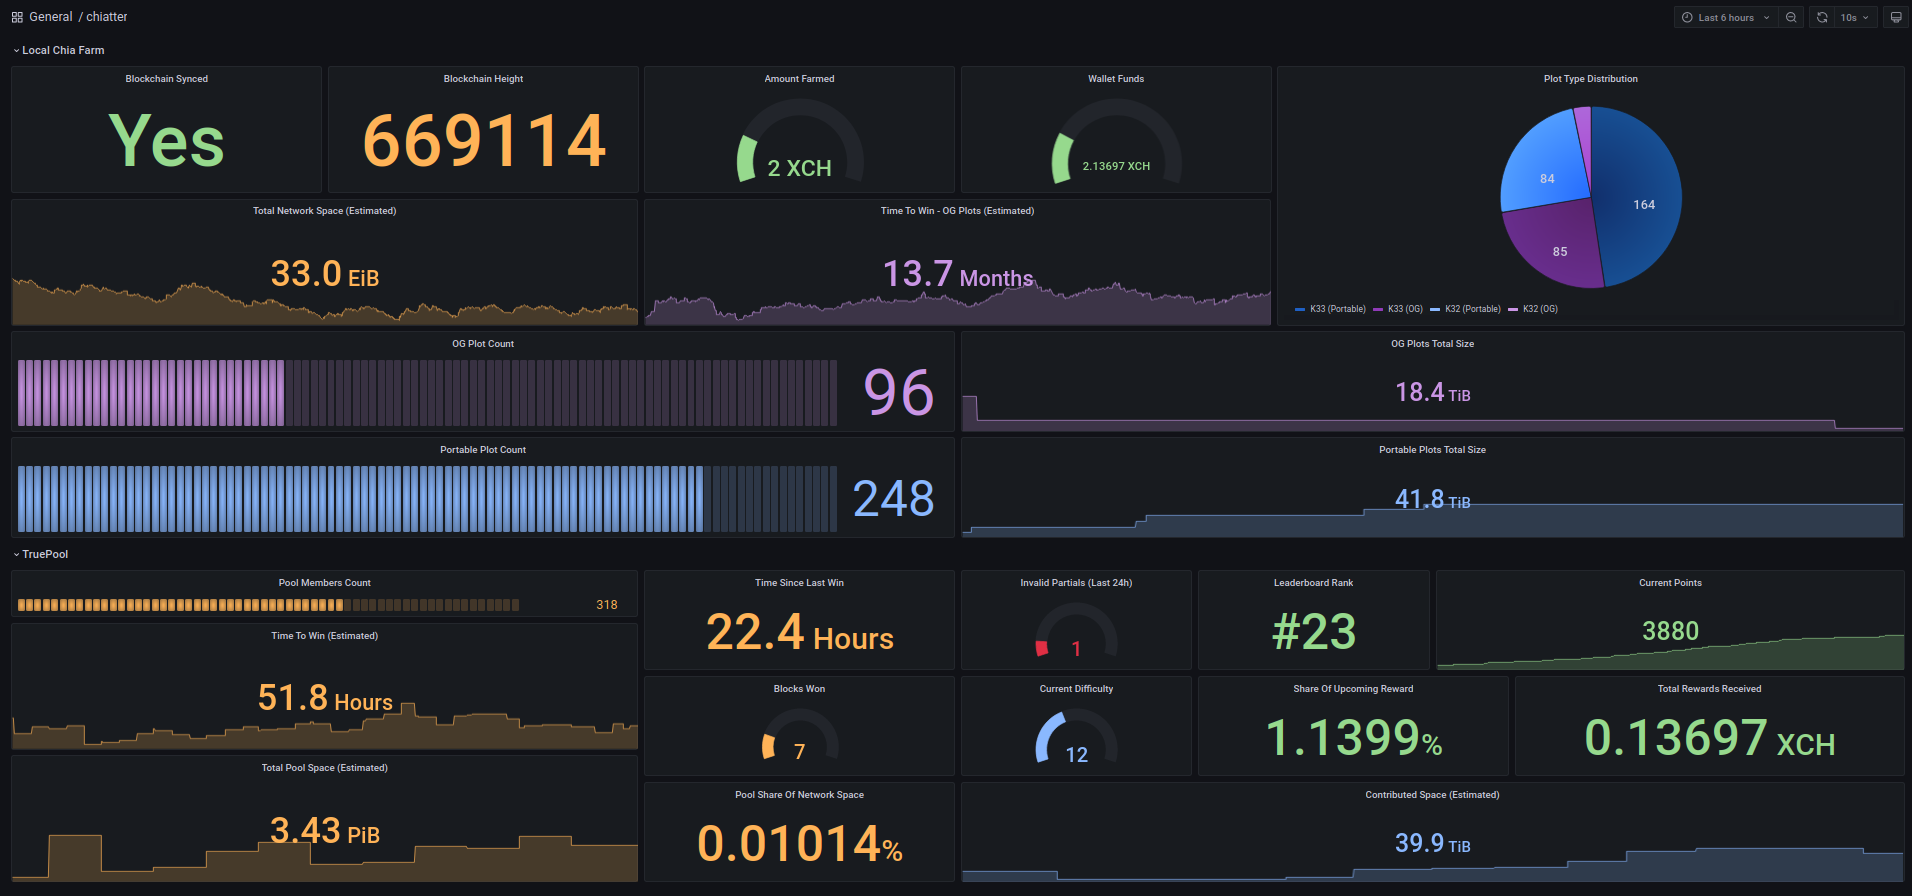
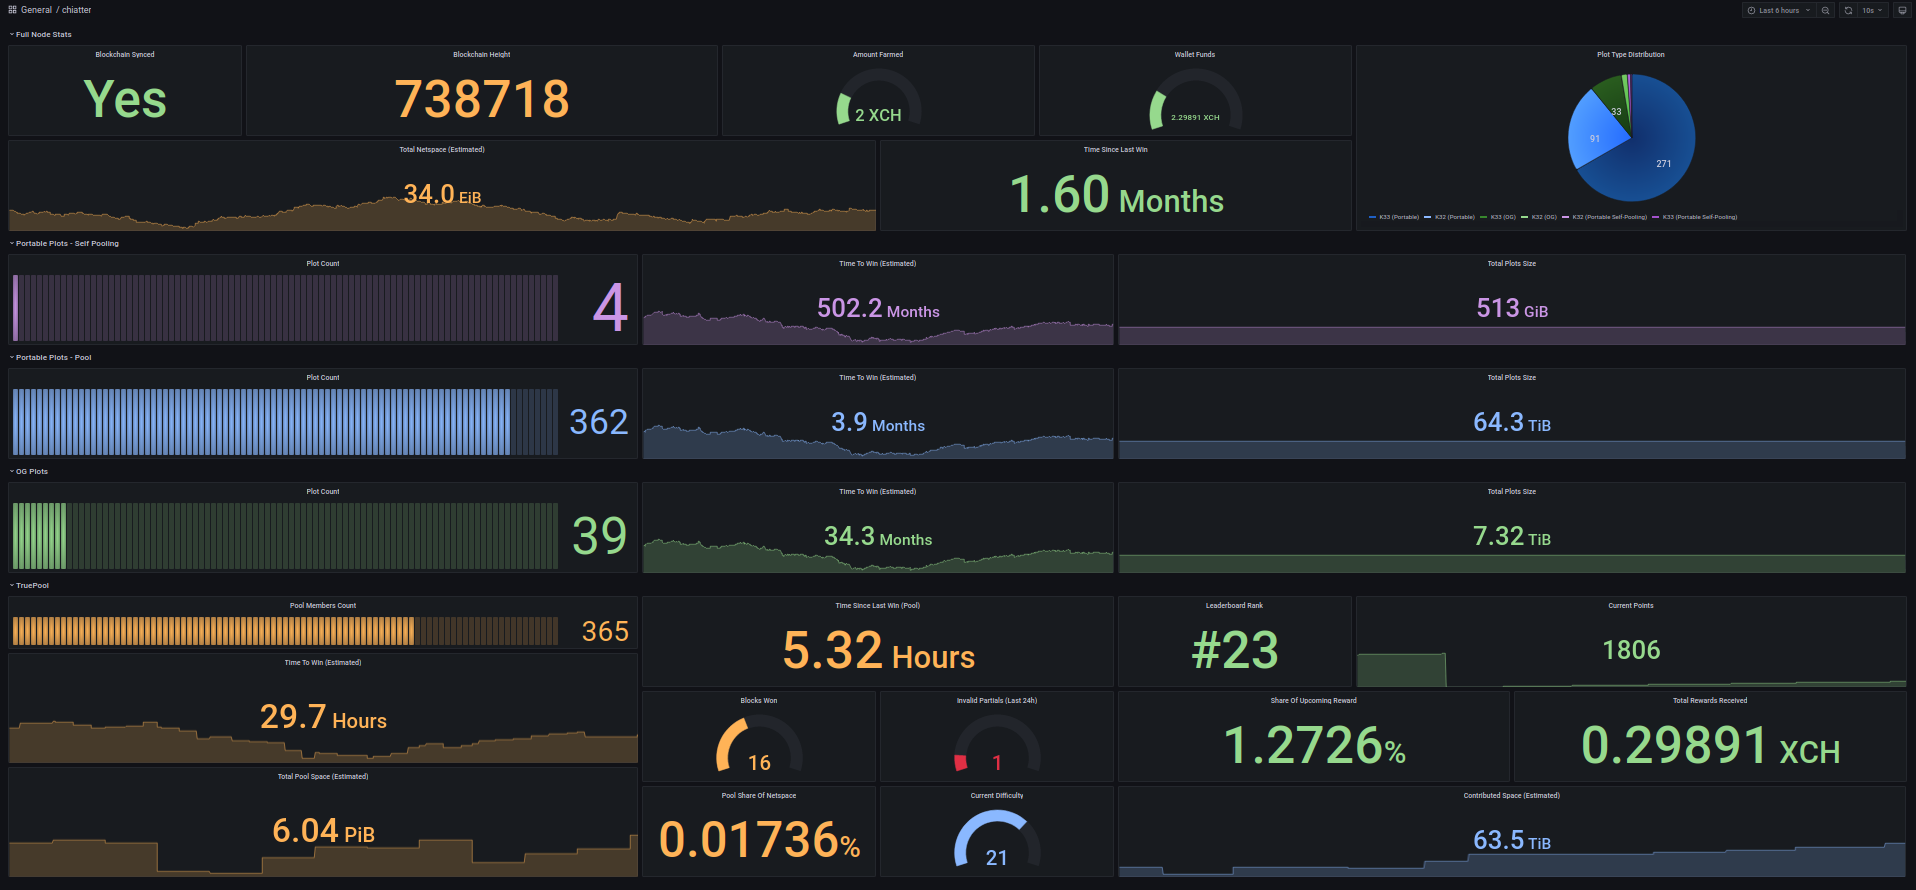
Updated screenshot to reflect newly added stats

diff --git a/scripts/modules/chia_stats.py b/scripts/modules/chia_stats.py
@@ -126,8 +126,6 @@ class chia_stats:
             plots = await harvester.get_plots()
             
             for plot in plots['plots']:
-                #logger.debug(f'plot: {plot}')
-                
                 if plot['pool_public_key'] is not None:
                     self.og_size += plot["file_size"]
                     
